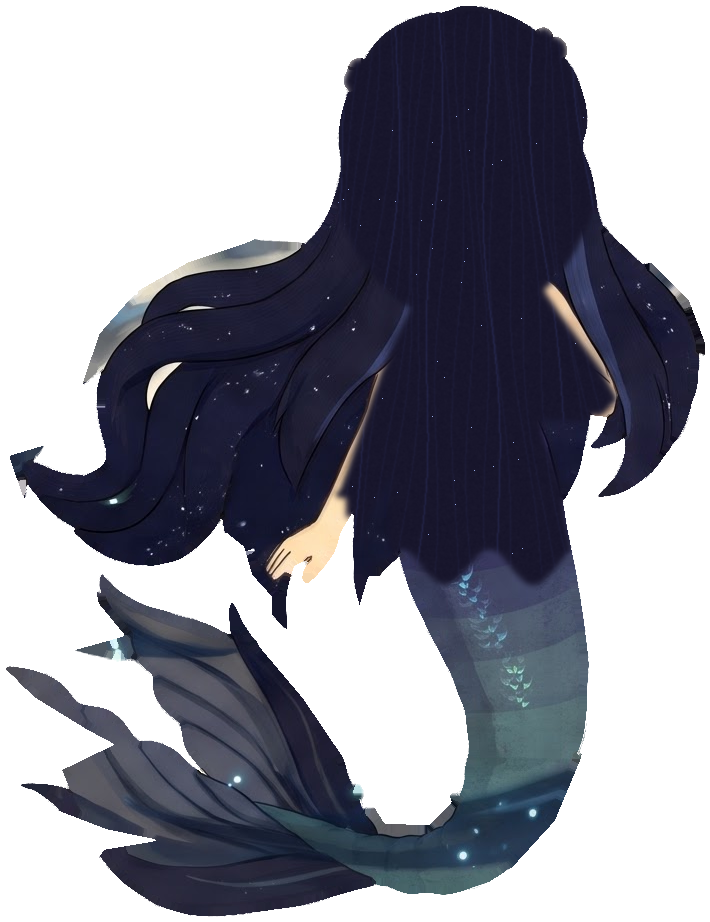
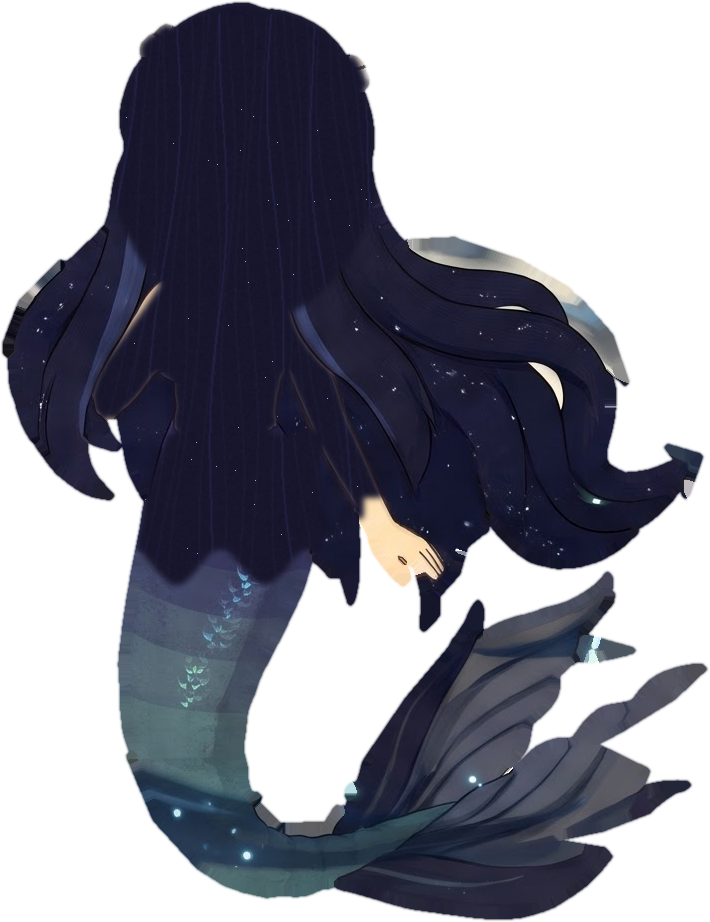
Mermaid boss: build head, hair, body, tail and fin as separate shapes
Claude-Session: https://claude.ai/code/session_01Kgu4J1iEDM3trmd3z759Ce

diff --git a/newworld/world/58-combat.js b/newworld/world/58-combat.js
@@ -138,13 +138,16 @@ function makeCombat(ctx) {
     mermaid: (g) => { const b = new THREE.Group(); g.add(b); const HT = 3.7, CX = 0.346, U = { uT: { value: 0 }, uAmp: { value: 1 } }, TL = new THREE.TextureLoader(), tex = (n) => { const t = TL.load('/nw-art/' + n); t.colorSpace = THREE.SRGBColorSpace; return t; };
       const mat = (map) => { const mt = new THREE.MeshBasicMaterial({ map, alphaTest: 0.5, side: THREE.DoubleSide });   /* 兩面都畫：從側面看進縫裡才不會是空的 */ mt.onBeforeCompile = (sh) => { sh.uniforms.uT = U.uT; sh.uniforms.uAmp = U.uAmp;
         sh.vertexShader = 'uniform float uT; uniform float uAmp; attribute float flow;\n' + sh.vertexShader.replace('#include <begin_vertex>', '#include <begin_vertex>\n float dn = clamp((' + (HT * 0.52).toFixed(3) + ' - position.y) / ' + (HT * 0.52).toFixed(3) + ', 0.0, 1.0); float w = dn * dn;\n transformed.z += (sin(uT * 1.5 - dn * 3.0) * 0.34 * w + sin(uT * 2.3 + position.x * 2.0) * 0.1 * flow) * uAmp;\n transformed.x += (sin(uT * 1.1 - dn * 2.4) * 0.1 * w + sin(uT * 1.7 + position.y * 2.5) * 0.05 * flow) * uAmp;'); }; return mt; };
-      const im = new Image(); im.onload = () => { const w = im.width, h = im.height, cv = document.createElement('canvas'); cv.width = w; cv.height = h; const x = cv.getContext('2d', { willReadFrequently: true }); x.drawImage(im, 0, 0); const d = x.getImageData(0, 0, w, h).data;
-        const GX = 132, GY = 172, WD = HT * w / h, K = HT / (h * 4) / 2, at = (u, v, c) => { const fx = Math.min(w - 1.001, u * (w - 1)), fy = Math.min(h - 1.001, v * (h - 1)), ix = fx | 0, iy = fy | 0, ax = fx - ix, ay = fy - iy, q = (xx, yy) => d[(yy * w + xx) * 4 + c]; return (q(ix, iy) * (1 - ax) + q(ix + 1, iy) * ax) * (1 - ay) + (q(ix, iy + 1) * (1 - ax) + q(ix + 1, iy + 1) * ax) * ay; };
-        [1, -1].forEach(sd => { const pos = [], uv = [], fl = [], idx = [], hs = [];
-          for (let j = 0; j <= GY; j++) for (let i = 0; i <= GX; i++) { const u = i / GX, v = j / GY, hh = at(u, v, sd > 0 ? 0 : 1) * K; hs.push(at(u, v, 0) + at(u, v, 1)); pos.push((u - CX) * WD, (1 - v) * HT, sd * hh); uv.push(sd > 0 ? u : 1 - u, 1 - v); fl.push(at(u, v, 2) / 255); }
-          for (let j = 0; j < GY; j++) for (let i = 0; i < GX; i++) { const a = j * (GX + 1) + i, c = a + 1, e = a + GX + 1, f = e + 1; if (hs[a] + hs[c] + hs[e] + hs[f] < 1) continue; if (sd > 0) idx.push(a, e, c, c, e, f); else idx.push(a, c, e, c, f, e); }
+      // 每個部位一張厚度圖（R 正面 z、G 背面 z、B 會飄的程度、A 範圍），各自做成前後兩片再疊在一起：頭是球、身體和尾巴是圓筒、尾鰭是薄片、頭髮披在背後
+      const TF = tex('mermaid-front.png'), TB = tex('mermaid-back.png'), MF = mat(TF), MB = mat(TB), GX = 132, GY = 172;
+      [['hair', MB], ['head', MB], ['body', MF], ['tail', MF], ['fin', MF]].forEach(([name, backM]) => { const im = new Image(); im.onload = () => { const w = im.width, h = im.height, cv = document.createElement('canvas'); cv.width = w; cv.height = h; const x = cv.getContext('2d', { willReadFrequently: true }); x.drawImage(im, 0, 0); const d = x.getImageData(0, 0, w, h).data;
+        const WD = HT * w / h, K = HT / (h * 4), at = (u, v, c) => { const fx = Math.min(w - 1.001, u * (w - 1)), fy = Math.min(h - 1.001, v * (h - 1)), ix = fx | 0, iy = fy | 0, ax = fx - ix, ay = fy - iy, q = (xx, yy) => d[(yy * w + xx) * 4 + c]; return (q(ix, iy) * (1 - ax) + q(ix + 1, iy) * ax) * (1 - ay) + (q(ix, iy + 1) * (1 - ax) + q(ix + 1, iy + 1) * ax) * ay; };
+        const N = (GX + 1) * (GY + 1), on = new Uint8Array(N), use = new Int32Array(N).fill(-1), cells = []; for (let j = 0; j <= GY; j++) for (let i = 0; i <= GX; i++) on[j * (GX + 1) + i] = at(i / GX, j / GY, 3) > 110 ? 1 : 0;
+        for (let j = 0; j < GY; j++) for (let i = 0; i < GX; i++) { const a = j * (GX + 1) + i; if (on[a] + on[a + 1] + on[a + GX + 1] + on[a + GX + 2] >= 2) cells.push(a); }
+        [1, -1].forEach(sd => { const pos = [], uv = [], fl = [], idx = []; use.fill(-1); const vert = (a) => { if (use[a] >= 0) return use[a]; const i = a % (GX + 1), j = (a / (GX + 1)) | 0, u = i / GX, v = j / GY, zf = (at(u, v, 0) - 160) * 1.6, zb = (at(u, v, 1) - 160) * 1.6, e = Math.min(1, at(u, v, 3) / 150); pos.push((u - CX) * WD, (1 - v) * HT, ((zf + zb) / 2 + sd * (zf - zb) / 2 * e) * K); uv.push(u, 1 - v); fl.push(at(u, v, 2) / 255); return (use[a] = pos.length / 3 - 1); };
+          cells.forEach(a => { const p0 = vert(a), p1 = vert(a + 1), p2 = vert(a + GX + 1), p3 = vert(a + GX + 2); if (sd > 0) idx.push(p0, p2, p1, p1, p2, p3); else idx.push(p0, p1, p2, p1, p3, p2); });
           const geo = new THREE.BufferGeometry(); geo.setAttribute('position', new THREE.Float32BufferAttribute(pos, 3)); geo.setAttribute('uv', new THREE.Float32BufferAttribute(uv, 2)); geo.setAttribute('flow', new THREE.Float32BufferAttribute(fl, 1)); geo.setIndex(idx);
-          const o = new THREE.Mesh(geo, mat(tex(sd > 0 ? 'mermaid-front.png' : 'mermaid-back.png'))); o.frustumCulled = false; b.add(o); }); }; im.src = '/nw-art/mermaid-h.png';
+          const o = new THREE.Mesh(geo, sd > 0 ? MF : backM); o.frustumCulled = false; b.add(o); }); }; im.src = '/nw-art/mermaid-p-' + name + '.png'; });
       const sh = flat(mesh(GEO.disc, bm('#3a2f20', 0.16), g)); sh.position.y = 0.04; sh.scale.set(1.1, 0.8, 1);
       // 音符：圖上剪下來的兩種，從頭旁邊往上飄
       const notes = [0, 1, 2, 3, 4].map(n => { const sp = new THREE.Sprite(new THREE.SpriteMaterial({ map: tex(n % 2 ? 'mermaid-note2.png' : 'mermaid-note1.png'), transparent: true, depthWrite: false })); sp.visible = false; g.add(sp); sp.ph = n / 5; sp.sx = (n % 2 ? 1 : -1) * (0.9 + (n % 3) * 0.25); return sp; });

diff --git a/newworld/assets/src/build_mermaid.py b/newworld/assets/src/build_mermaid.py
@@ -53,39 +53,63 @@ def inflate(mask, s=3):
 def cap(h, c): return c * np.tanh(h / c)   # 太厚的地方壓平
 
 yy, xx = np.mgrid[0:H, 0:W]
-head = (((xx - HEAD[0]) / HEAD[2]) ** 2 + ((yy - HEAD[1]) / HEAD[3]) ** 2) < 1
-body = (head | (poly(TORSO) > 0.5) | (poly(TAIL) > 0.5)) & m
-fin = poly(FIN, 6) * (1 - poly(TAIL, 4))
-h_all = cap(inflate(m), 70); h_body = cap(inflate(body), 92)
-thin = 1 - 0.8 * fin
-front = ndi.gaussian_filter((0.5 * h_all + 0.75 * h_body) * thin, 2.5)
-back = ndi.gaussian_filter(np.maximum(h_all * 1.1, cap(inflate(head & m), 105) * 0.95) * thin, 2.5)
-# 會飄的地方：尾鰭，還有離身體比較遠的髮尾
-far = np.clip((ndi.distance_transform_edt(~ndi.binary_dilation(body, iterations=10)) - 10) / 160, 0, 1)
-flow = np.clip(fin + far * (1 - fin), 0, 1) * m
+lum = a.max(2)
+head = ((((xx - HEAD[0]) / HEAD[2]) ** 2 + ((yy - HEAD[1]) / HEAD[3]) ** 2) < 1) & m
+tailp = (poly(TAIL) > 0.5) & m
+# 身體和手：身體範圍裡「亮的」（皮膚、貝殼、珍珠），線稿的縫補起來；垂在肩膀前面的髮束是暗的，留給頭髮
+tor = ndi.binary_dilation(poly(TORSO) > 0.5, iterations=10) & m & (lum > 150) & ~tailp & (yy > 262)
+tor = ndi.binary_fill_holes(ndi.binary_closing(tor, iterations=4)); lab, n = ndi.label(tor); sz = ndi.sum(tor, lab, range(1, n + 1)); tor = np.isin(lab, [k + 1 for k, v in enumerate(sz) if v > 400]) & ~(head & (yy < 300))
+tailp &= ~tor
+finp = (poly(FIN) > 0.5) & m & ~tailp
+cover = (head | tor | (tailp & (yy < 590 + 18 * np.sin(xx / 14.0)))) & m & ~((xx > 646) & (yy > 520))   # 背面被長髮蓋住的範圍
+hairp = m & ~finp & ~(tailp & ~cover)
+# 描邊描不準留下的碎片不要算成頭髮，併回尾巴或尾鰭
+hk = ndi.binary_opening(hairp, iterations=5); lab, n = ndi.label(hk); sz = ndi.sum(hk, lab, range(1, n + 1)); hk = ndi.binary_dilation(lab == (int(np.argmax(sz)) + 1), iterations=5) & hairp
+rest = hairp & ~hk; hairp = hk; finp |= rest & (yy > 600) & (xx > 600); tailp |= rest & ~finp & (yy > 470)
+
+def taper(h, mask, n=8):
+    e = np.clip((ndi.distance_transform_edt(mask) - 1) / n, 0, 1); return h * e * e * (3 - 2 * e)
+
+# 各部位自己吹：頭是球、身體和手是圓筒、尾巴是粗圓筒、尾鰭是薄片
+h_head = inflate(head); h_tor = cap(inflate(tor), 44); h_tail = cap(inflate(tailp) * 0.8, 62); h_fin = cap(inflate(finp), 9)
+# 頭髮是披在背後的一層：前面貼著身體的背，厚度另外算
+bodyback = ndi.gaussian_filter(np.maximum.reduce([h_head * 1.02, h_tor, h_tail * (yy < 640)]), 9)
+h_hair = cap(inflate(hairp), 30)
+flowf = poly(FIN, 6) * (1 - poly(TAIL, 4)); far = np.clip((ndi.distance_transform_edt(~ndi.binary_dilation(head | tor | tailp, iterations=10)) - 10) / 160, 0, 1)
+flow = np.clip(flowf + far * (1 - flowf), 0, 1) * m
+parts = {   # 名字: (範圍, 正面 z, 背面 z, 背面用哪張圖)
+    'head': (head, taper(h_head * 0.92, head), -taper(h_head * 0.9, head), 'back'),
+    'body': (tor, taper(h_tor, tor, 4), -taper(h_tor, tor, 4), 'front'),
+    'tail': (tailp, taper(h_tail, tailp), -taper(h_tail, tailp), 'front'),
+    'fin': (finp, taper(h_fin, finp, 4), -taper(h_fin, finp, 4), 'front'),
+    'hair': (hairp, -bodyback + taper(h_hair * 0.35, hairp), -bodyback - taper(h_hair * 1.5, hairp) - 14 * (bodyback > 3), 'back'),
+}
 
 os.makedirs(OUT, exist_ok=True)
 # 邊緣那一圈是線稿和背景混在一起的淺色，貼到模型的側面會變成一條白邊：改成用往裡面幾個像素的顏色
+soft = np.maximum(soft, np.clip(ndi.gaussian_filter(ndi.binary_dilation(m, iterations=3).astype(float), 1.2) * 1.6, 0, 1))   # 透明的邊往外放一點，側面的接縫才不會透光
 src_a = a; inner = ndi.binary_erosion(m, iterations=7); near = ndi.distance_transform_edt(~inner, return_indices=True)[1]; a = a[near[0], near[1]]
-edge = np.clip((ndi.distance_transform_edt(m) - 1) / 9, 0, 1); edge = edge * edge * (3 - 2 * edge); front = front * edge * 1.2; back = back * edge * 1.2   # 邊緣收到零，正面和背面才合得起來
-rgba = np.dstack([a, soft * 255]).astype('uint8')[y0:y1, x0:x1]; Image.fromarray(rgba).save(os.path.join(OUT, 'mermaid-front.png'), optimize=True)
+Image.fromarray(np.dstack([a, soft * 255]).astype('uint8')[y0:y1, x0:x1]).save(os.path.join(OUT, 'mermaid-front.png'), optimize=True)
 # 背面：頭、身體、手臂和上段尾巴都被長髮蓋住
 hairc = np.array([24., 22., 44.]); rng = np.random.default_rng(7)
-cover = (head | (poly(TORSO) > 0.5) | ((poly(TAIL) > 0.5) & (yy < 590 + 18 * np.sin(xx / 14.0)))) & m & ~((xx > 646) & (yy > 520))
-cover = ndi.binary_dilation(cover, iterations=3) & m; cw = ndi.gaussian_filter(cover.astype(float), 3)[..., None]
+cw = ndi.gaussian_filter(ndi.binary_dilation(cover, iterations=3).astype(float), 3)[..., None]
 tex = np.ones((H, W, 3)) * hairc + rng.normal(0, 2.2, (H, W, 1))
 for k in range(26):   # 幾條淡淡的髮絲，順著往下、往兩邊散
     px = 420 + k * 9 + rng.normal(0, 3); t = np.arange(40, 600); lx = px + (px - 530) * (t / 600.0) ** 2 * 0.9 + 5 * np.sin(t / 60.0 + k)
     ok = (lx > 1) & (lx < W - 2); tex[t[ok], lx[ok].astype(int)] += (10 if k % 5 else 26) * np.array([0.6, 0.8, 1.6])
 tex = ndi.gaussian_filter(tex, (0.8, 0.8, 0))
 for k in range(60): tex[int(rng.uniform(120, 580)), int(rng.uniform(380, 680))] = [150, 170, 230]
-backc = a * (1 - cw) + tex * cw
-Image.fromarray(np.dstack([backc, soft * 255]).astype('uint8')[y0:y1, x0:x1][:, ::-1]).save(os.path.join(OUT, 'mermaid-back.png'), optimize=True)   # 左右翻過來，背面看才是對的
-S = 4; hh = np.dstack([np.clip(front * 2, 0, 255), np.clip(back * 2, 0, 255), flow * 255]).astype('uint8')[y0:y1, x0:x1]
-Image.fromarray(hh).resize(((x1 - x0) // S, (y1 - y0) // S), Image.BILINEAR).save(os.path.join(OUT, 'mermaid-h.png'), optimize=True)
+Image.fromarray(np.dstack([a * (1 - cw) + tex * cw, soft * 255]).astype('uint8')[y0:y1, x0:x1]).save(os.path.join(OUT, 'mermaid-back.png'), optimize=True)
+# 厚度圖：每個部位一張。R = 正面 z、G = 背面 z（存成 z / 1.6 + 160）、B = 會飄的程度、A = 這個部位的範圍
+S = 4; enc = lambda z: np.clip(z / 1.6 + 160, 0, 255)
+for name, (mask, zf, zb, bk) in parts.items():
+    mk = ndi.gaussian_filter(ndi.binary_dilation(mask, iterations=3).astype(float), 2); zf = ndi.gaussian_filter(zf, 2); zb = ndi.gaussian_filter(zb, 2)
+    hh = np.dstack([enc(zf), enc(zb), flow * 255, mk * 255]).astype('uint8')[y0:y1, x0:x1]
+    Image.fromarray(hh).resize(((x1 - x0) // S, (y1 - y0) // S), Image.BILINEAR).save(os.path.join(OUT, 'mermaid-p-%s.png' % name), optimize=True)
 for i, box in enumerate([(226, 122, 294, 200), (326, 186, 382, 252)]):
     c = src_a[box[1]:box[3], box[0]:box[2]]; d = dist[box[1]:box[3], box[0]:box[2]]; Image.fromarray(np.dstack([c, np.clip((d - 18) / 22, 0, 1) * 255]).astype('uint8')).save(os.path.join(OUT, 'mermaid-note%d.png' % (i + 1)), optimize=True)
-print('size', x1 - x0, y1 - y0, 'front max', front.max(), 'back max', back.max())
+print('size', x1 - x0, y1 - y0, {k: (round(float(v[1].max())), round(float(v[2].min()))) for k, v in parts.items()})
 if PRE:
-    chk = Image.new('RGB', ((x1 - x0) * 3, y1 - y0), (120, 160, 120)); f = Image.open(os.path.join(OUT, 'mermaid-front.png')); b = Image.open(os.path.join(OUT, 'mermaid-back.png'))
-    chk.paste(f, (0, 0), f); chk.paste(b, (x1 - x0, 0), b); chk.paste(Image.fromarray(hh), ((x1 - x0) * 2, 0)); chk.resize((chk.width // 2, chk.height // 2)).save(os.path.join(PRE, 'mermaid-assets.png'))
+    col = np.zeros((H, W, 3))
+    for k, c in (('hair', (90, 60, 120)), ('head', (230, 200, 80)), ('body', (240, 150, 150)), ('tail', (90, 90, 220)), ('fin', (60, 200, 200))): col[parts[k][0]] = c
+    Image.fromarray(col.astype('uint8')[y0:y1, x0:x1]).resize(((x1 - x0) // 2, (y1 - y0) // 2)).save(os.path.join(PRE, 'mermaid-parts.png'))
